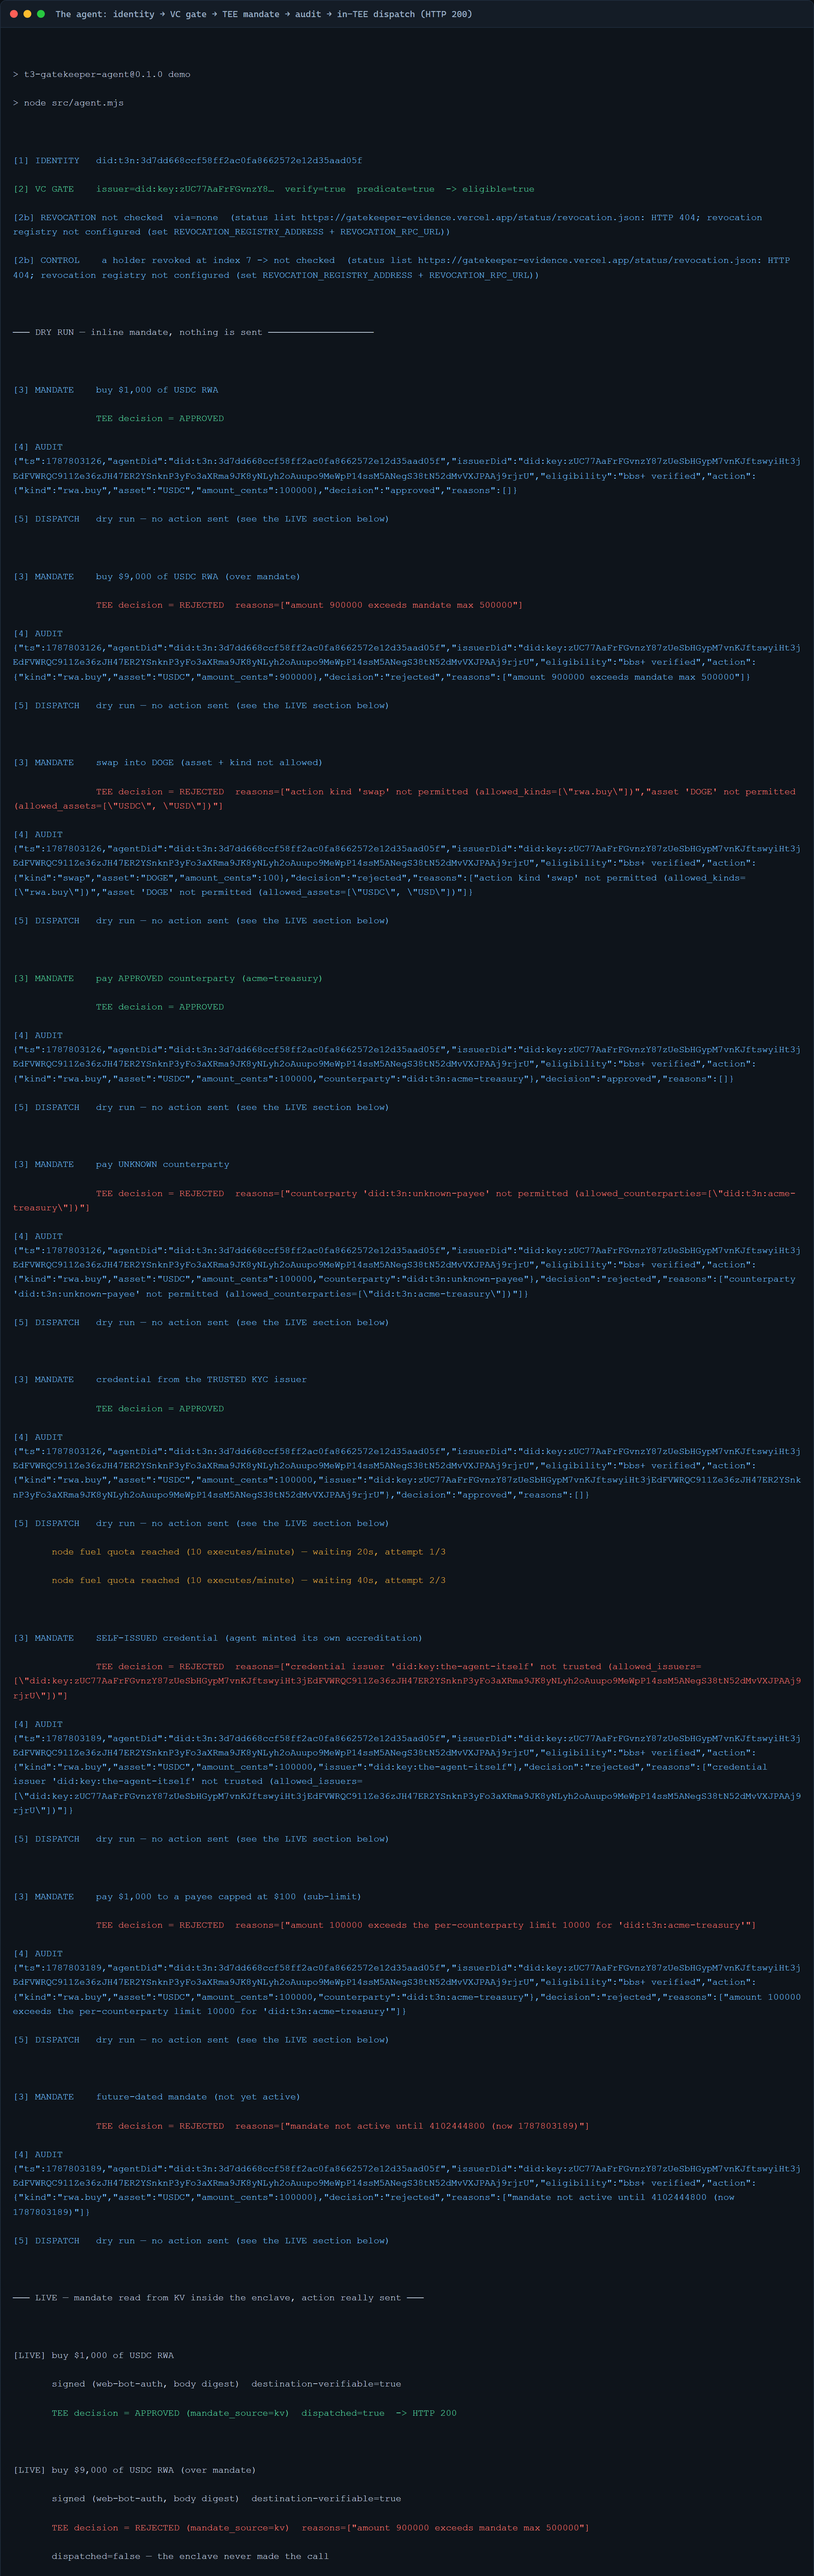
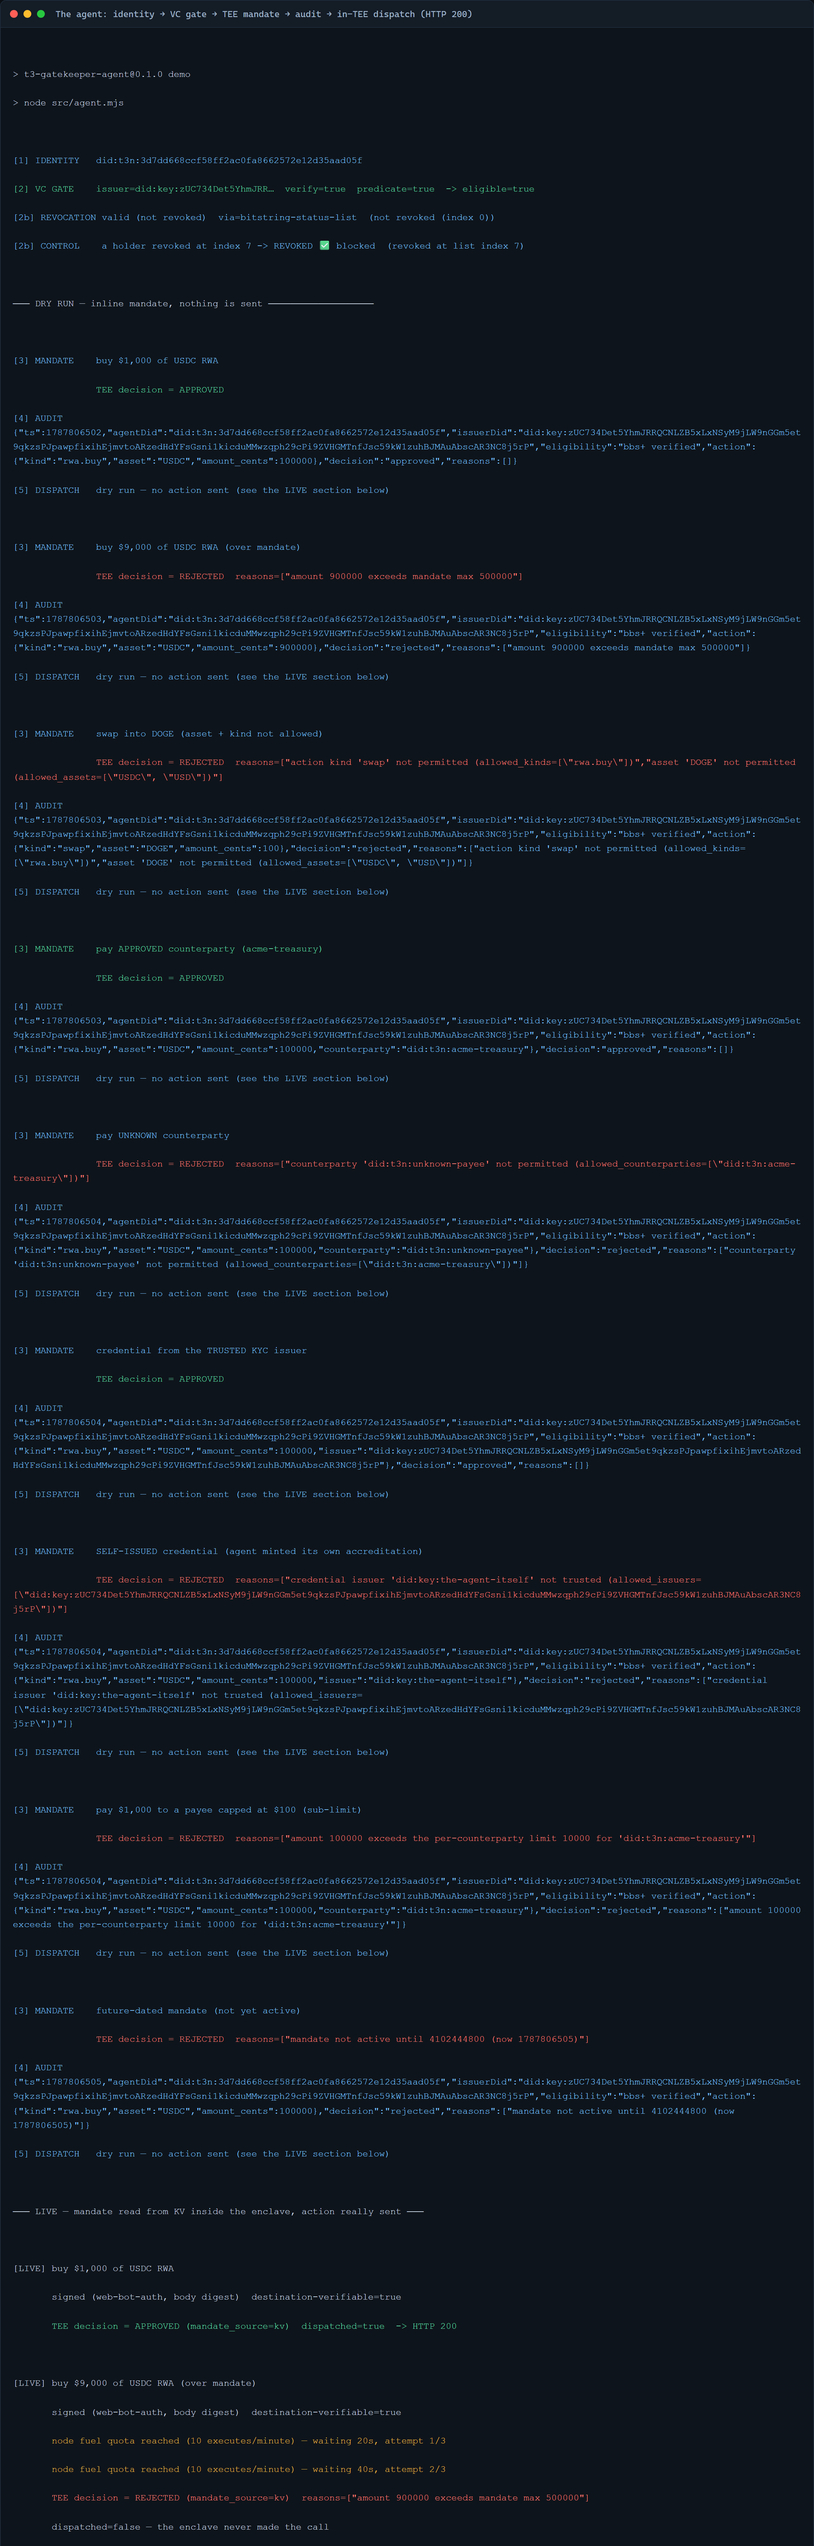
deploy: the revocation gate stops saying "not checked"
The status list, the agent card and shots 14-23 were sitting in the repo behind
two days of refused Vercel deploys. They are served now, so the three live
assertions that were red are green — 17/17 — and the whole suite is passing for
the first time this round.

The interesting one is not the test count. The revocation pre-gate could only
ever report "not checked", because there was no published list to check; it
refused to turn that into "not revoked", which was the right answer to a
question it could not answer. With the list live, the demo's control case comes
back REVOKED and blocked. Shot 05 is re-captured to show it.

Claude-Session: https://claude.ai/code/session_018f6JwozcrnmDXmsxr9oiPb

diff --git a/submission/SUBMISSION.md b/submission/SUBMISSION.md
@@ -635,16 +635,17 @@ from, and republished with captions at https://gatekeeper-evidence.vercel.app.
 
 Shots 05 and 06 were **re-captured live on 2026-08-27** against gate@0.10.0,
 once the account was topped up — so the working flow in shot 05 is the current
-contract, not a remembered one.
+contract, not a remembered one. It also shows the revocation pre-gate doing
+something for the first time: a control credential at the list index we publish
+as revoked comes back **REVOKED and blocked**, next to a healthy one that does
+not. Until the status list was actually served, that check could only report
+"not checked", which is what it correctly did.
 
-The evidence site is one deploy behind: Vercel's free tier refused further
-deployments for two days ("more than 100 per day"), so shots 14–23, the A2A
-agent card and the revocation status list are in the repo but not yet served.
-Their live assertions are the only red tests in the suite, and they are red for
-that reason alone — the same files are proven against a local server. One
-`cd site && npx vercel deploy --prod --yes` clears it. `capture.mjs` syncs the
-PNGs into `site/shots/` itself, and `npm run status-list` now republishes the
-agent card too, so neither is a manual step to forget.
+Everything above is live at https://gatekeeper-evidence.vercel.app — all 23
+shots, the A2A agent card, the Web Bot Auth key directory and the revocation
+status list. `capture.mjs` syncs the PNGs into `site/shots/` itself, and
+`npm run status-list` republishes the agent card, so neither is a manual step to
+forget.
 
 ---
 
@@ -656,6 +657,7 @@ I would rather state this than imply a live run I did not do.
 | --- | --- |
 | **On the network now** | **v0.10.0, `contract_id 749`**, registered 2026-08-27 |
 | **Proven live** | the KV mandate read, the credential/action binding, idempotent dispatch, in-enclave outbound HTTP (**200**), and `http-with-placeholders` — which until this week had only ever been compiled in |
+| **Also live** | the evidence site, the A2A agent card, the Web Bot Auth key directory and the W3C revocation status list — every live assertion in the suite passes (17/17) |
 | **Still not live** | the ERC-8004 mint (needs a gas-funded wallet) and x402 settlement (needs a facilitator and a funded stablecoin wallet). Both refuse to run unconfigured rather than faking it |
 
 An earlier draft of this section said v0.9.0 was built but unregistered because
